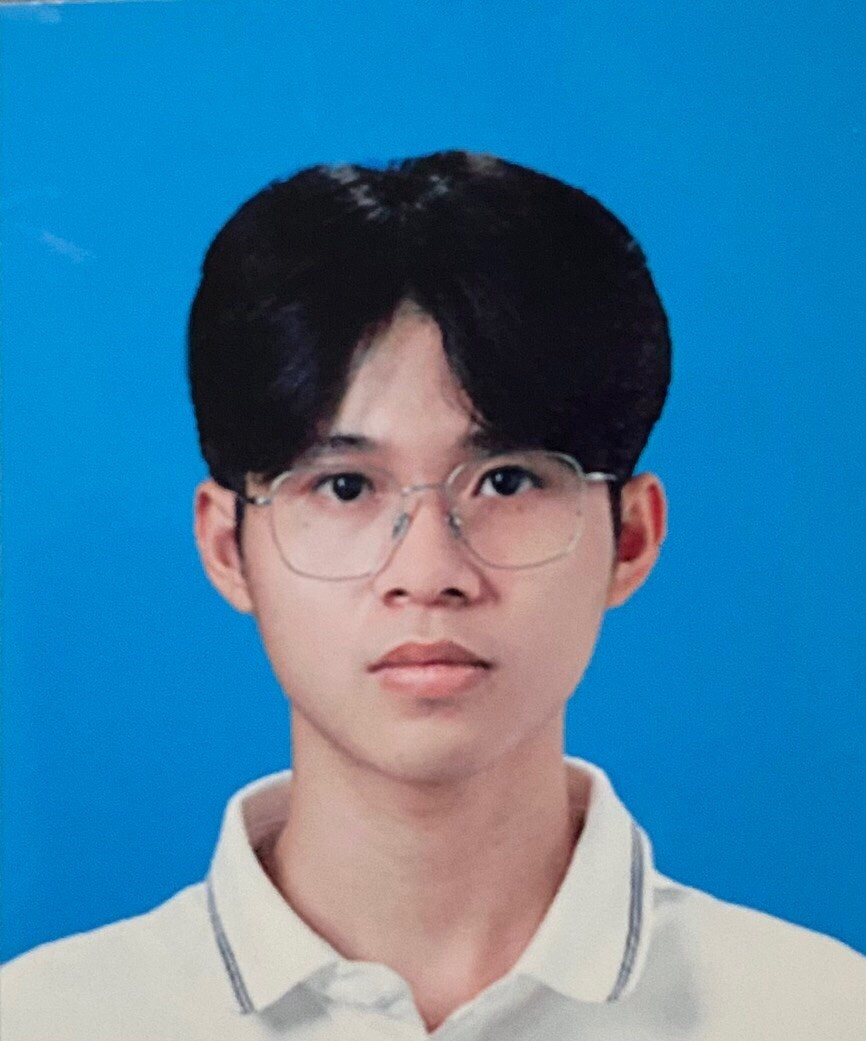
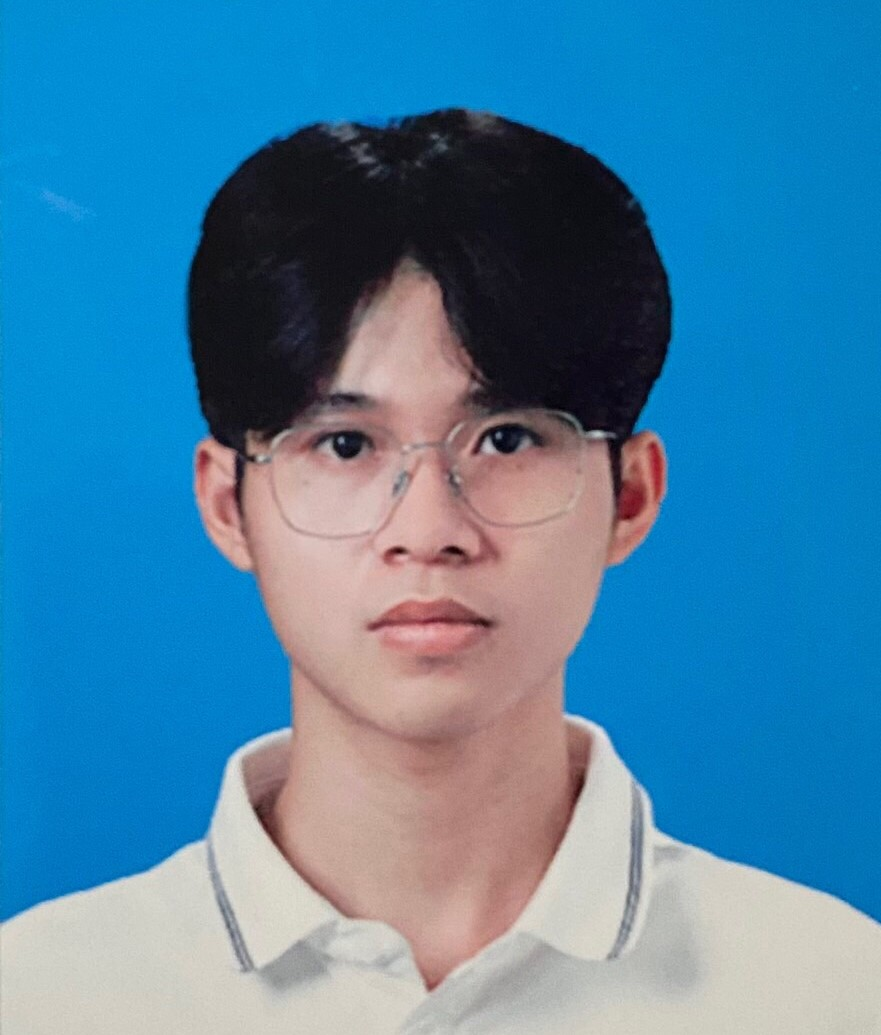
update cv

diff --git a/components/works/MyCv.tsx b/components/works/MyCv.tsx
@@ -46,7 +46,7 @@ const MyCv = (props: IMyCvProps) => {
                   alignSelf: "center",
                 }}
               >
-                <div style={{ transform: "scale(1)" }}>
+                <div style={{ transform: "scale(1.1)" }}>
                   <Image src={avatar} alt="avatar" width={500} height={460} />
                 </div>
               </Box>
